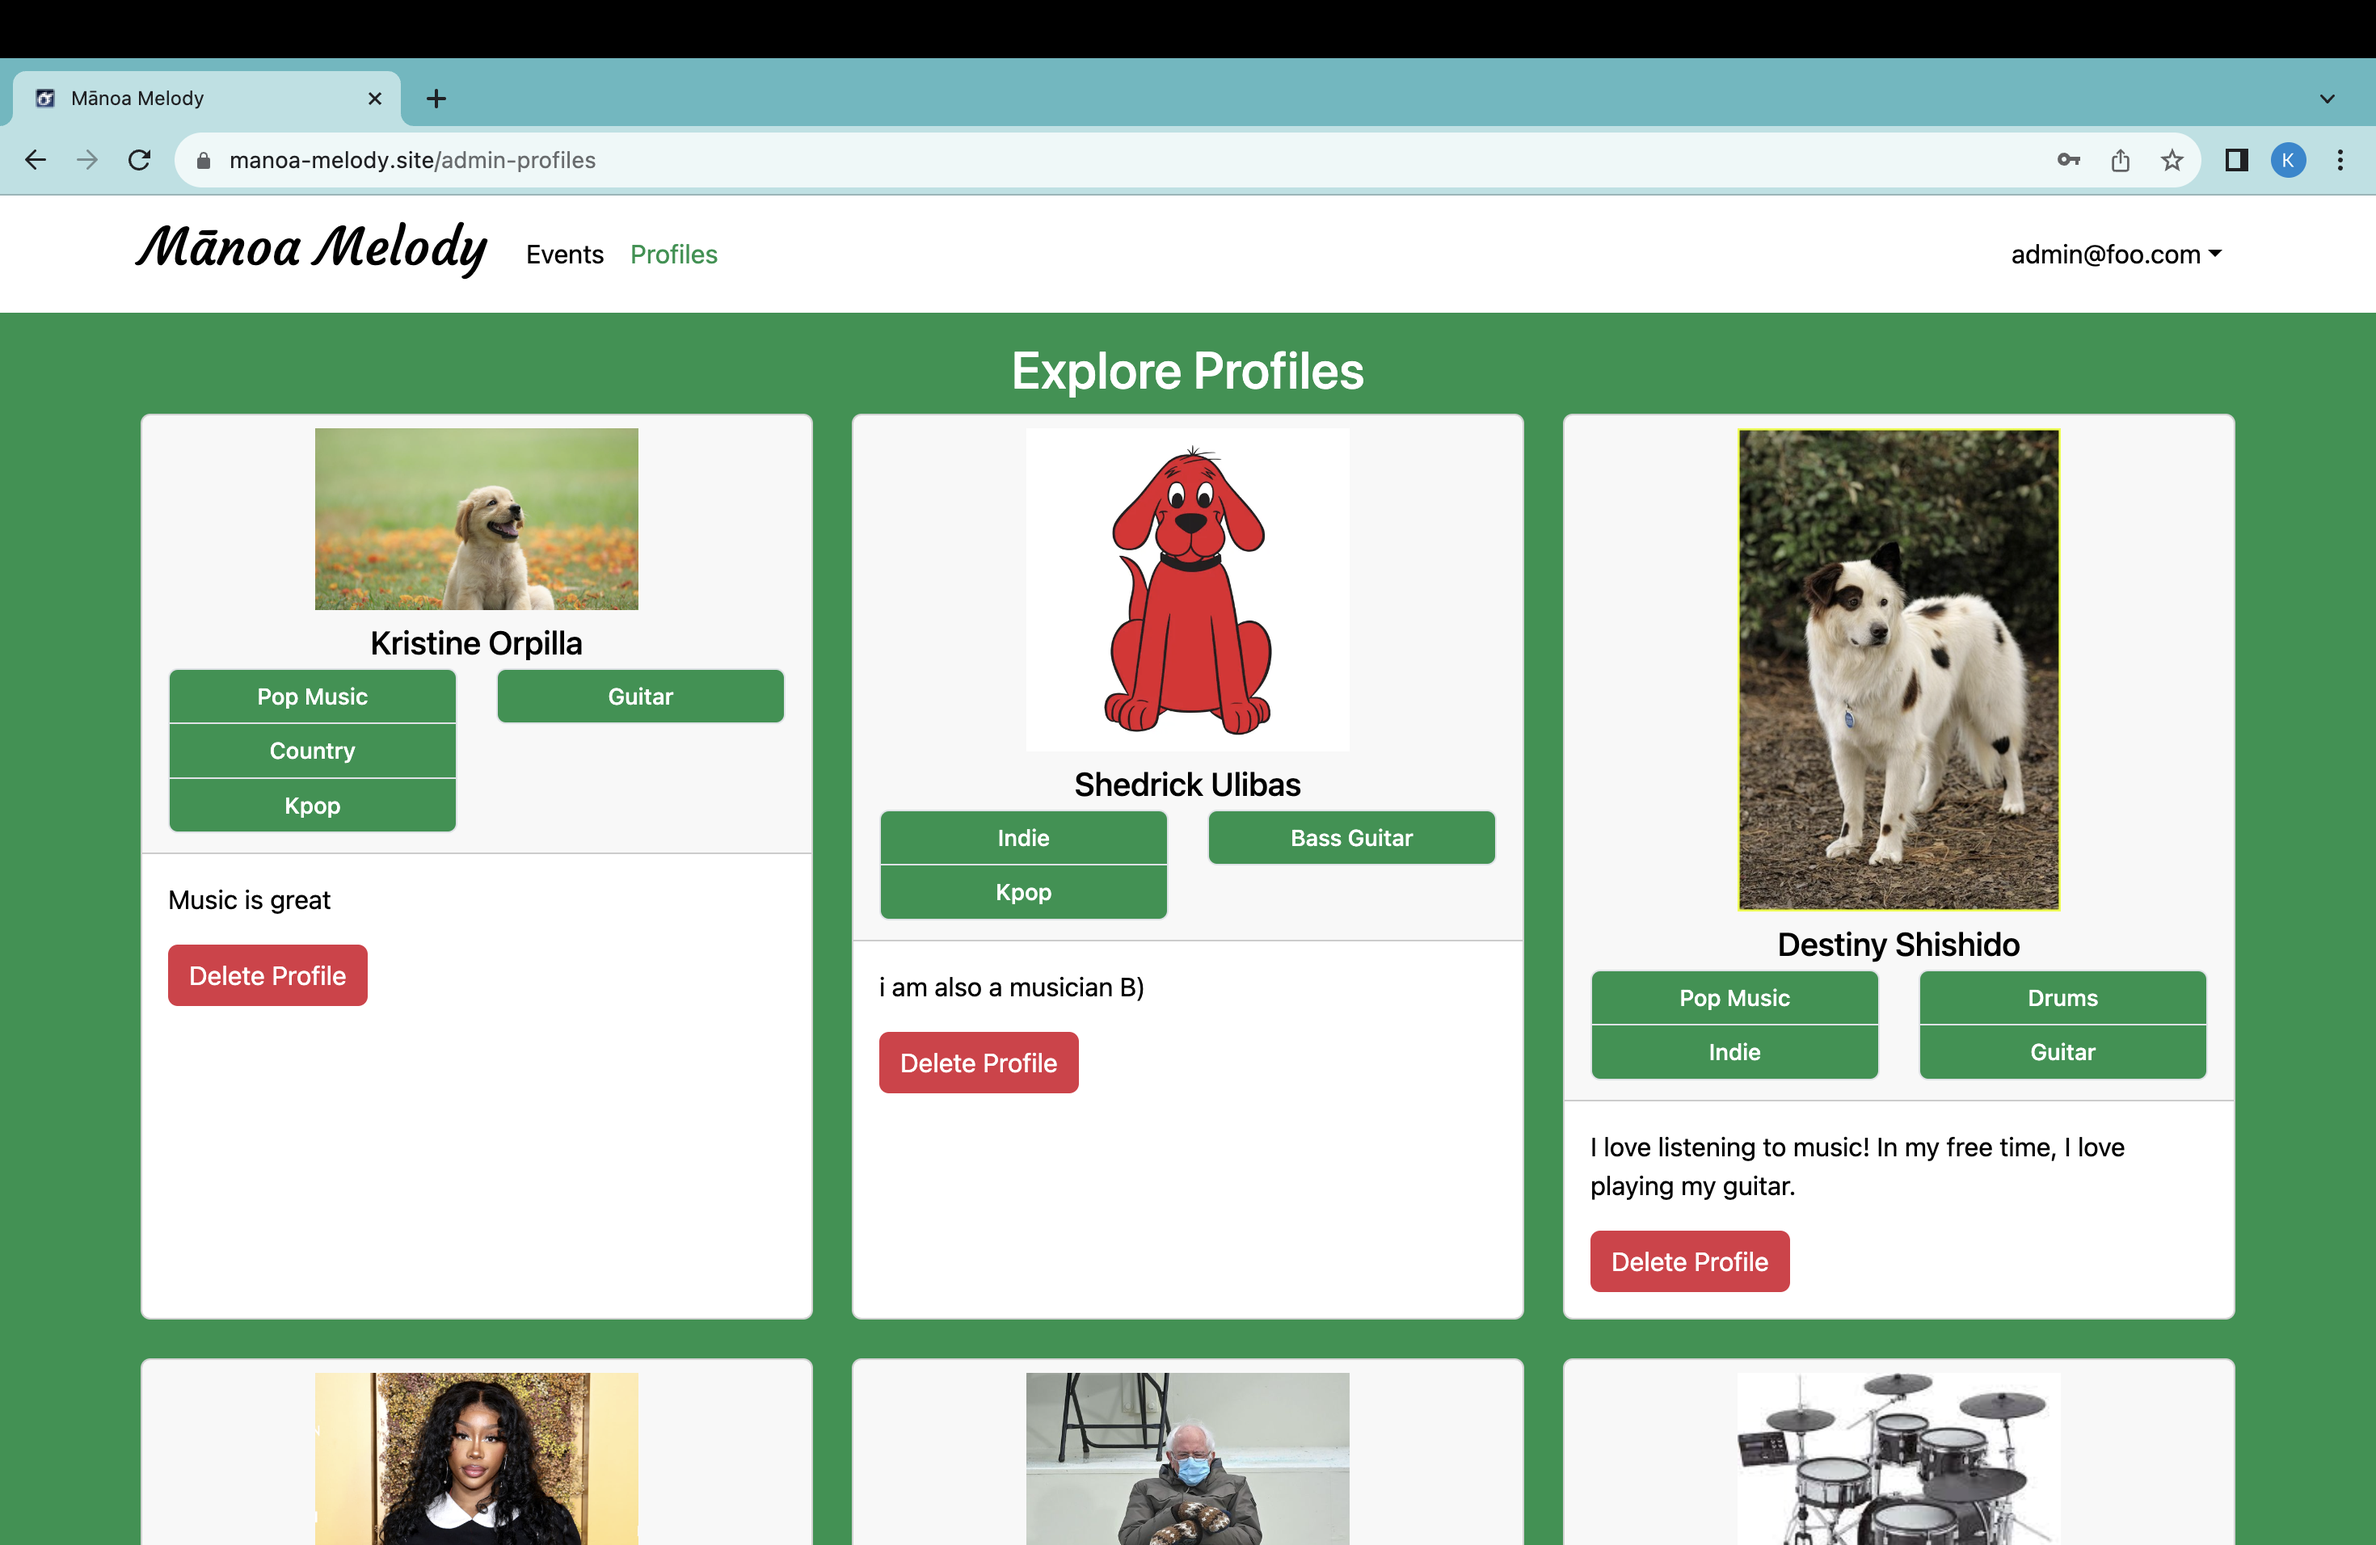
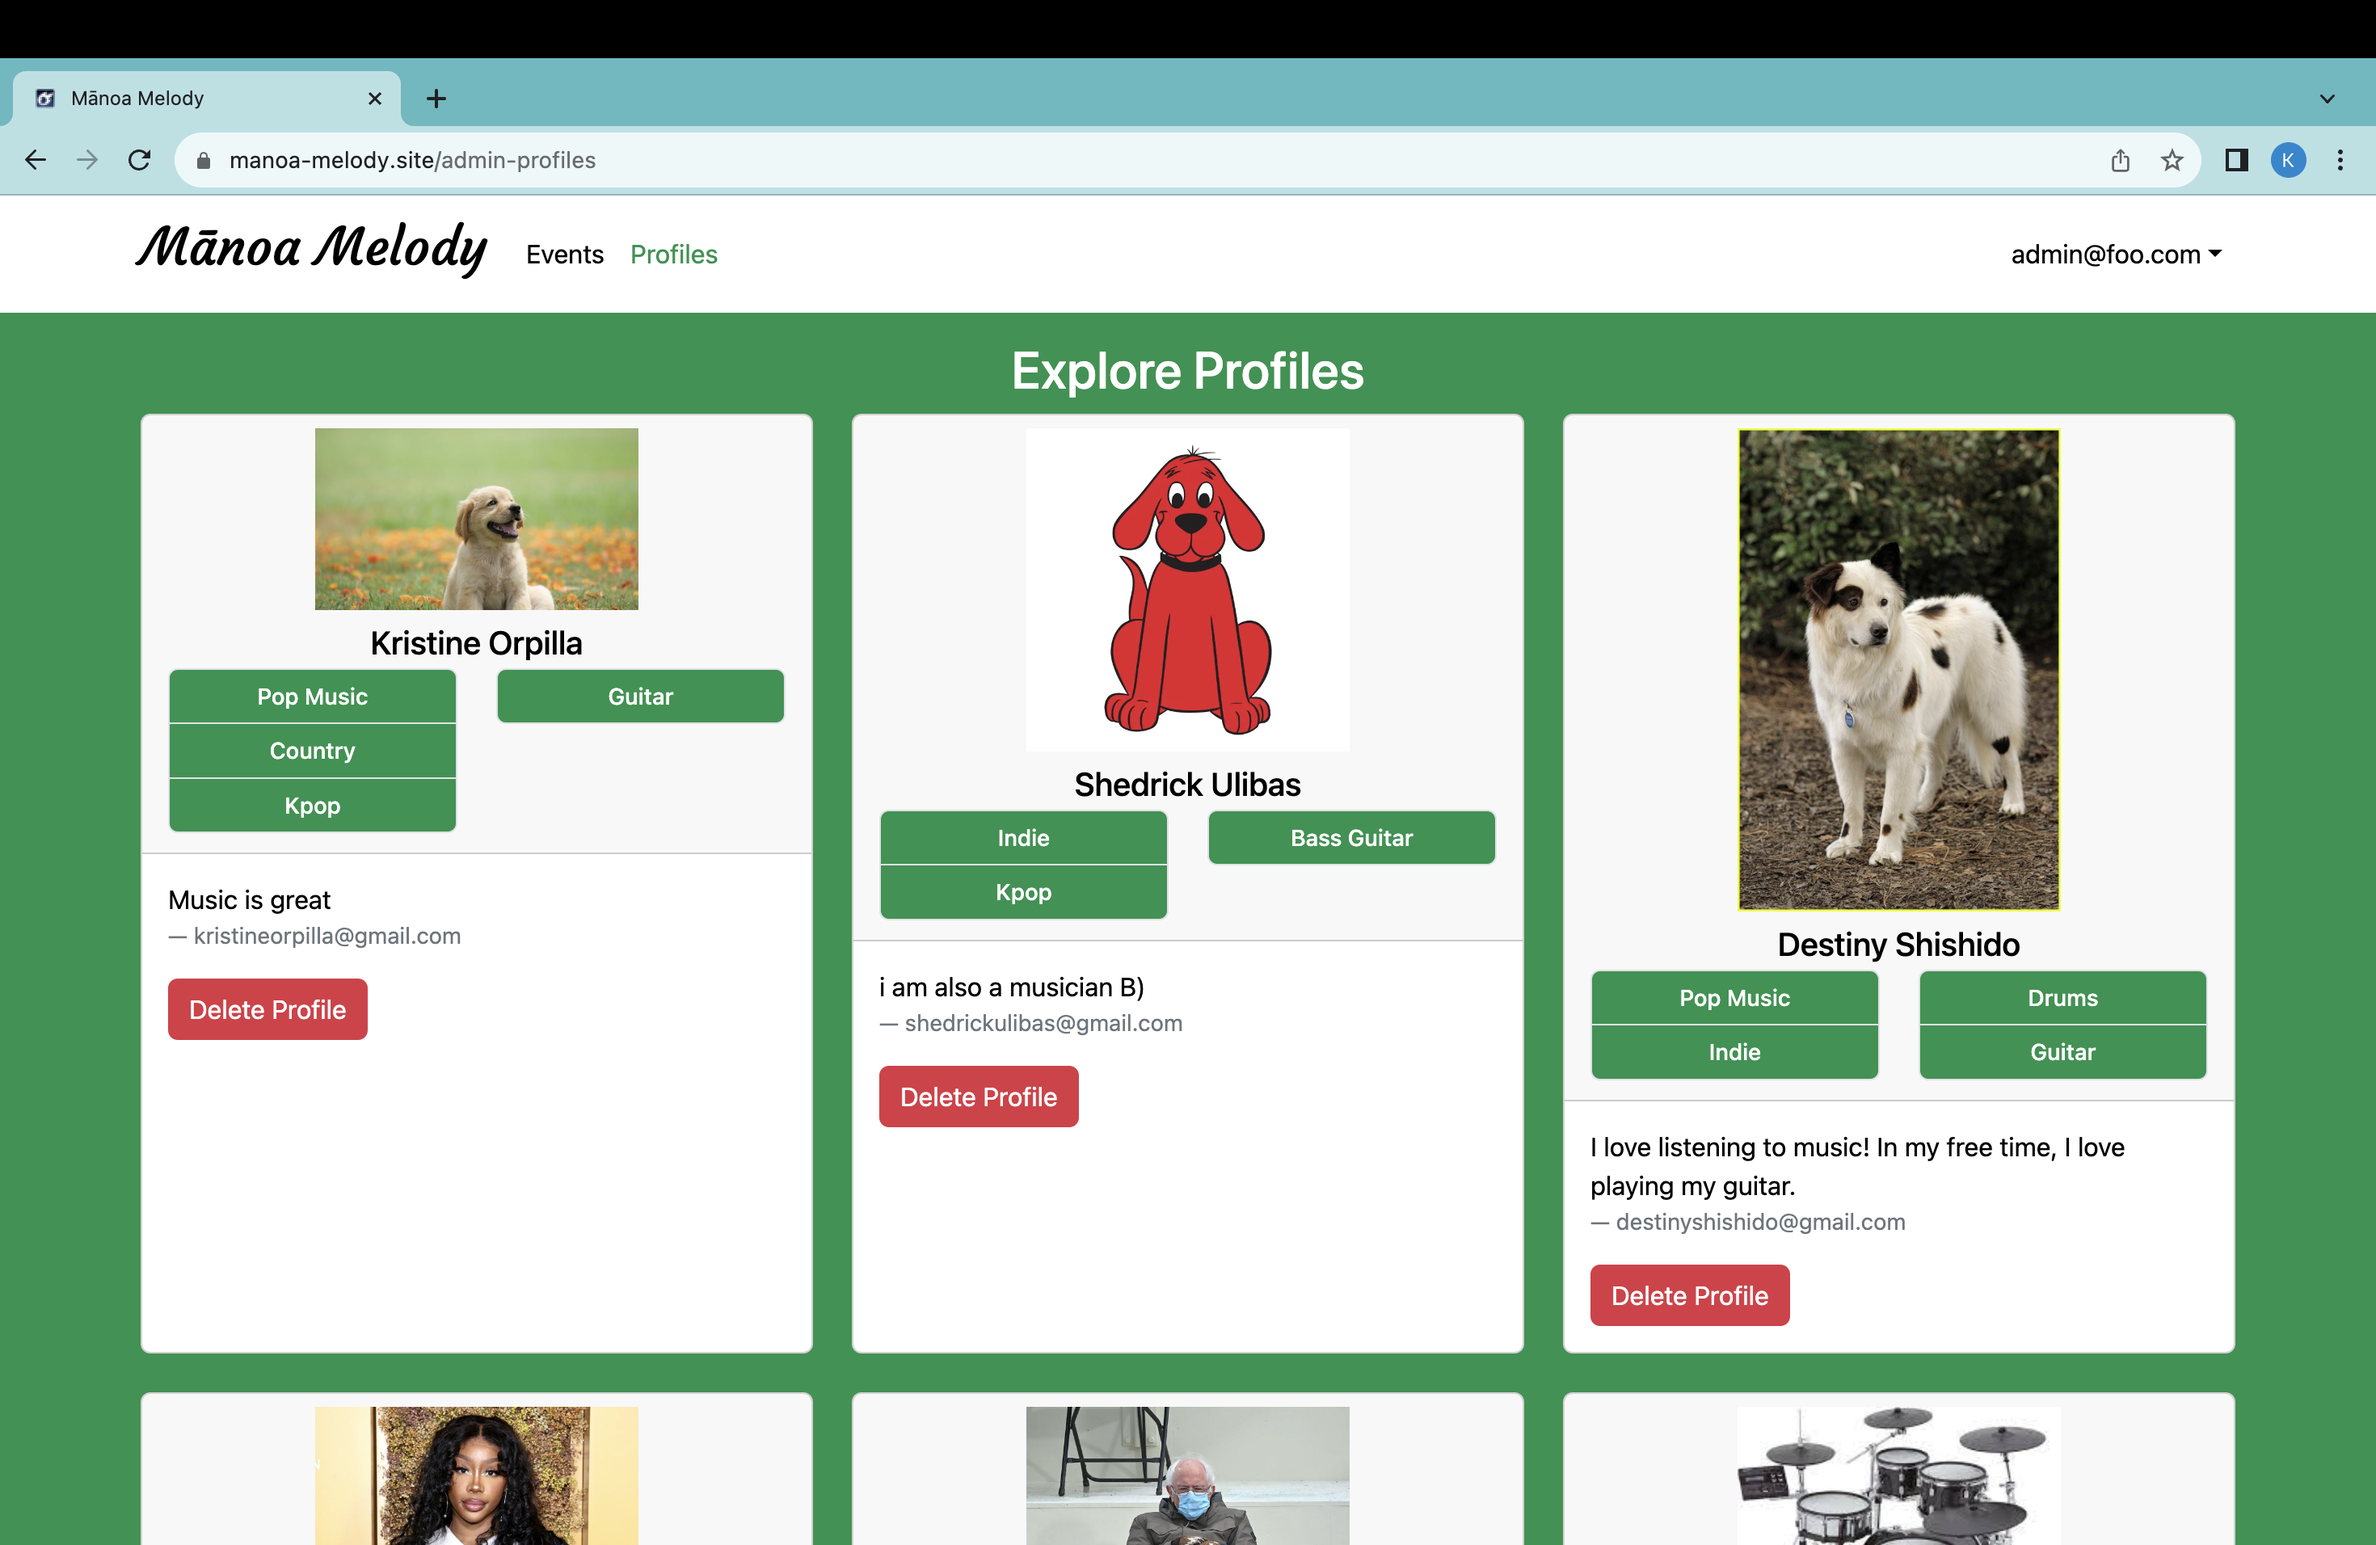
M3

Changed region(s): [[0.0619, 0.7714, 0.9595, 1.0], [0.3714, 0.648, 0.4952, 0.7406], [0.0619, 0.5863, 0.1857, 0.6789]]

diff --git a/index.md b/index.md
@@ -61,7 +61,7 @@ Users can explore events that are being hosted by the University and students by
 <img src="doc/m3/events-page.png">
 
 ### Profiles Page
-Users can explore other users on the application by clicking on the Profiles page link on the NavBar. The Profiles page will show users and their profiles. This page allows people to find student musicians and also students who share the same musical interests as them. Their profile includes their different social media profiles, where they can use to meet and network with others:
+Users can explore other users on the application by clicking on the Profiles page link on the NavBar. The Profiles page will show users and their profiles. This page allows people to find student musicians and also students who share the same musical interests as them. Their profile includes their email, where they can use to meet and network with others:
 <img src="doc/m3/profiles-page.png">
 
 ### My Events Page
